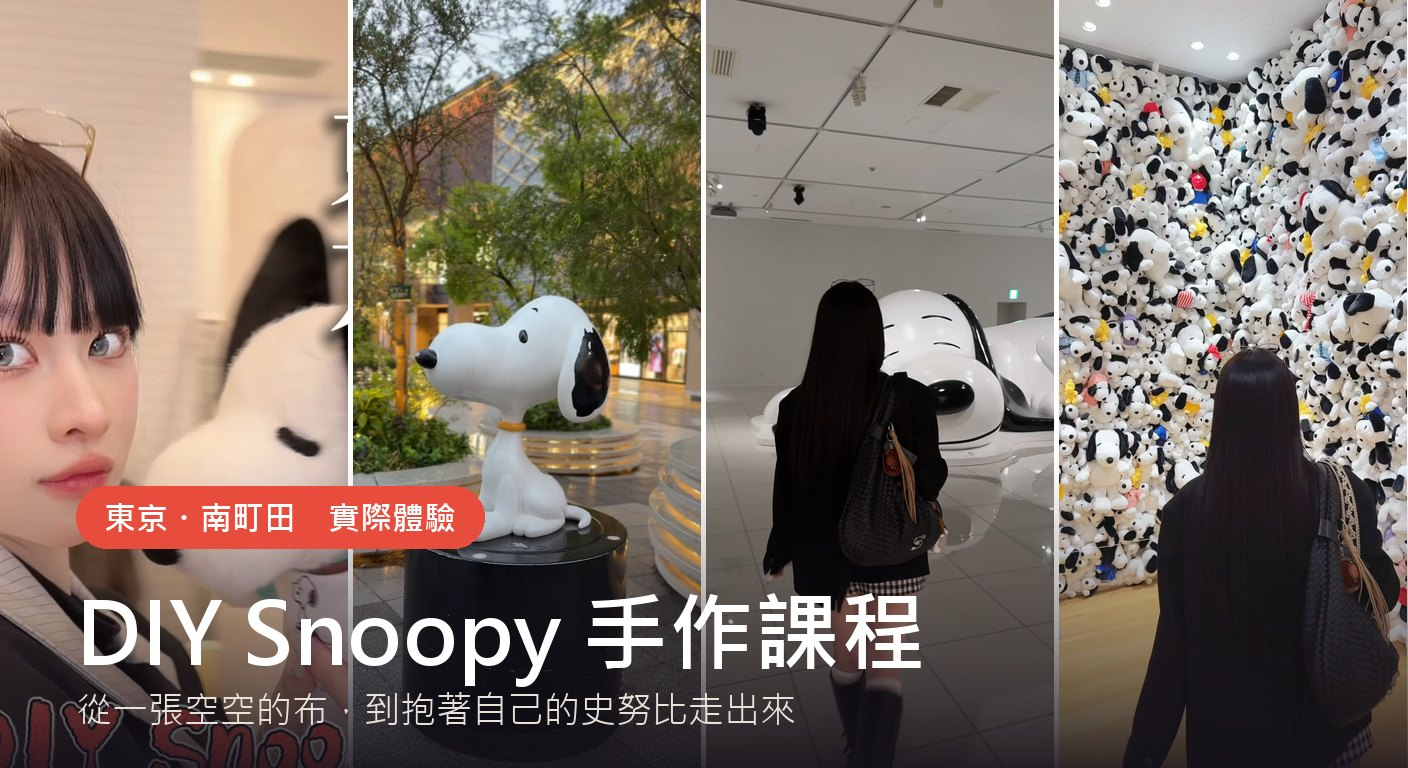
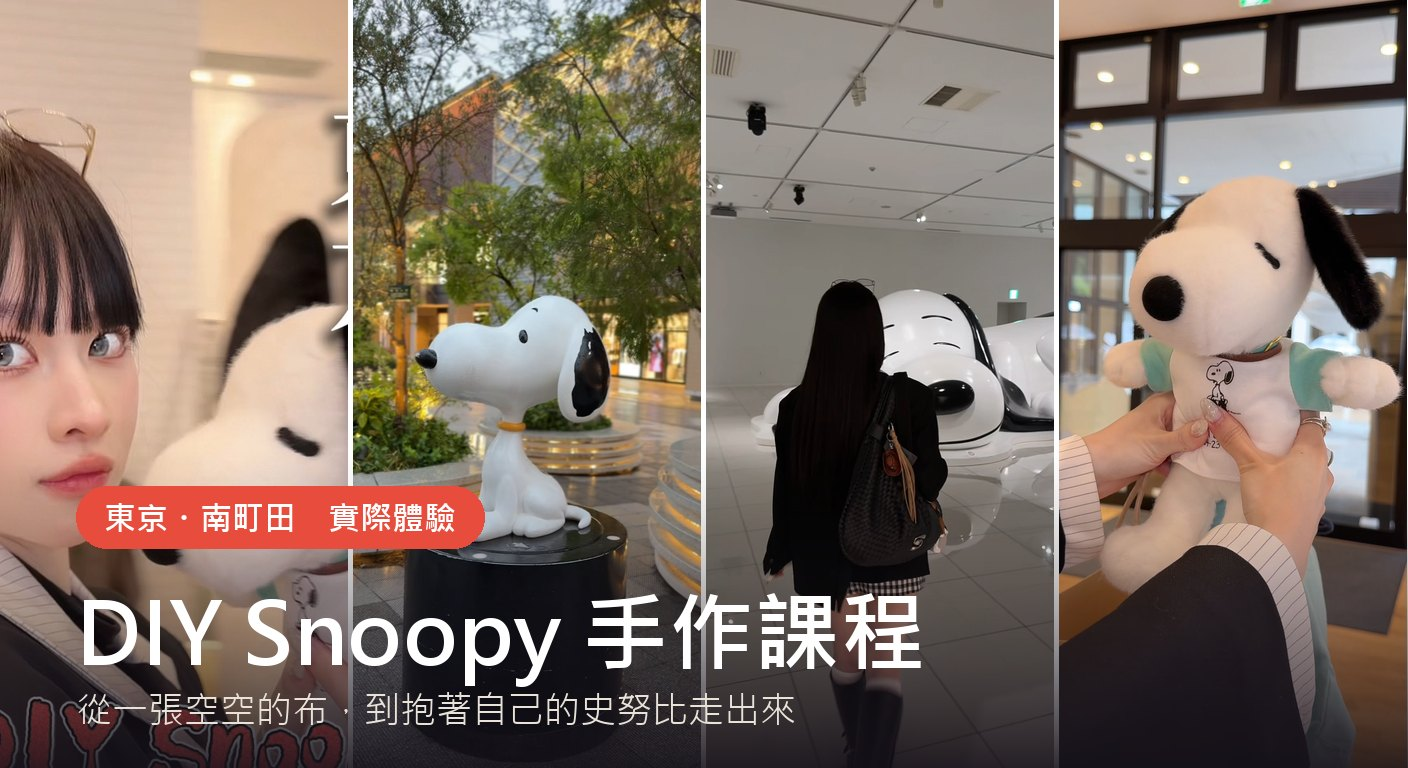
日記主視覺換掉最右一格，並修正一處圖文不符
- banner 最右格改為抱著完成品的照片，與主標「到抱著自己的史努比走出來」呼應
- 「連外面都是史努比」段落原本誤用室內照，改為戶外的史努比雕像

Changed region(s): [[0.75, 0.0, 1.0, 1.0]]

diff --git a/diy-snoopy/index.html b/diy-snoopy/index.html
@@ -735,7 +735,7 @@ footer strong{color:var(--ink-2)}
 
       <li>
         <figure class="diary__photo">
-          <img src="images/18-extra.jpg" alt="南町田グランベリーパーク內的史努比場景" width="720" height="1280" loading="lazy" decoding="async">
+          <img src="images/cover-3.jpg" alt="南町田グランベリーパーク戶外的史努比雕像" width="720" height="1280" loading="lazy" decoding="async">
         </figure>
         <div class="diary__text">
           <h3>連外面都是史努比</h3>
